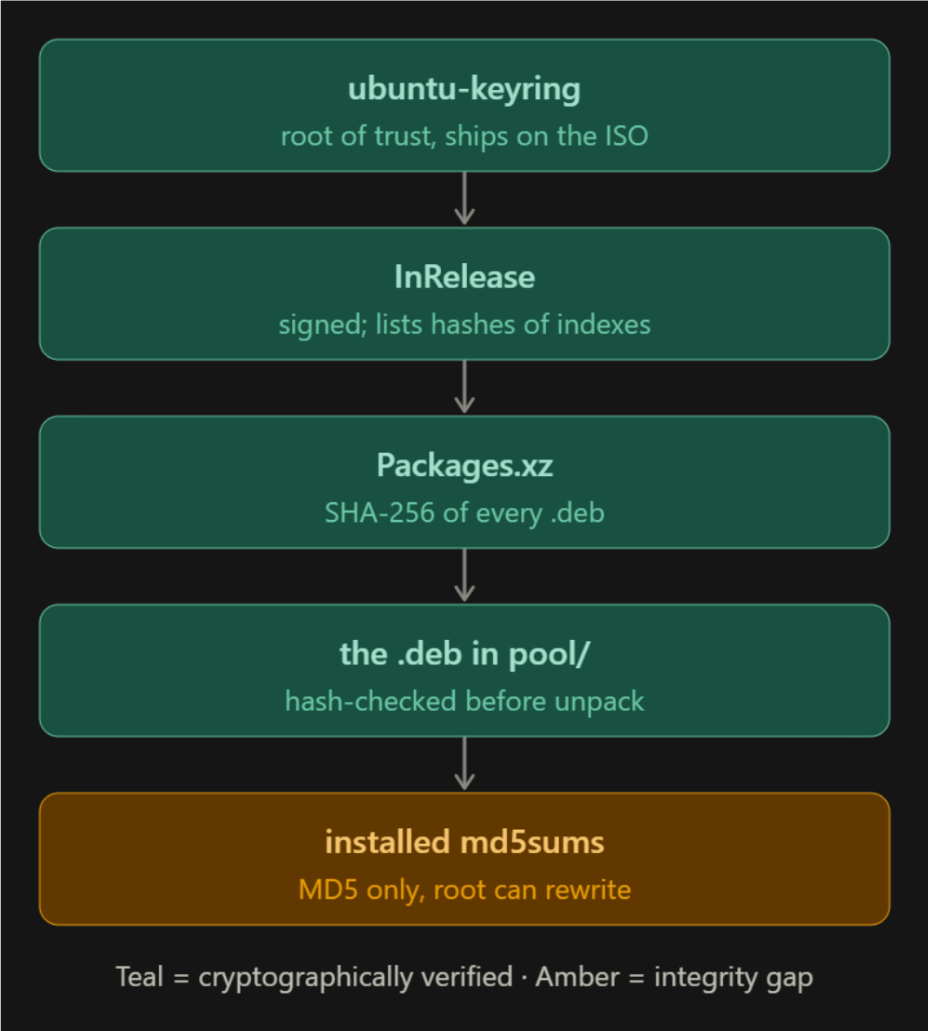
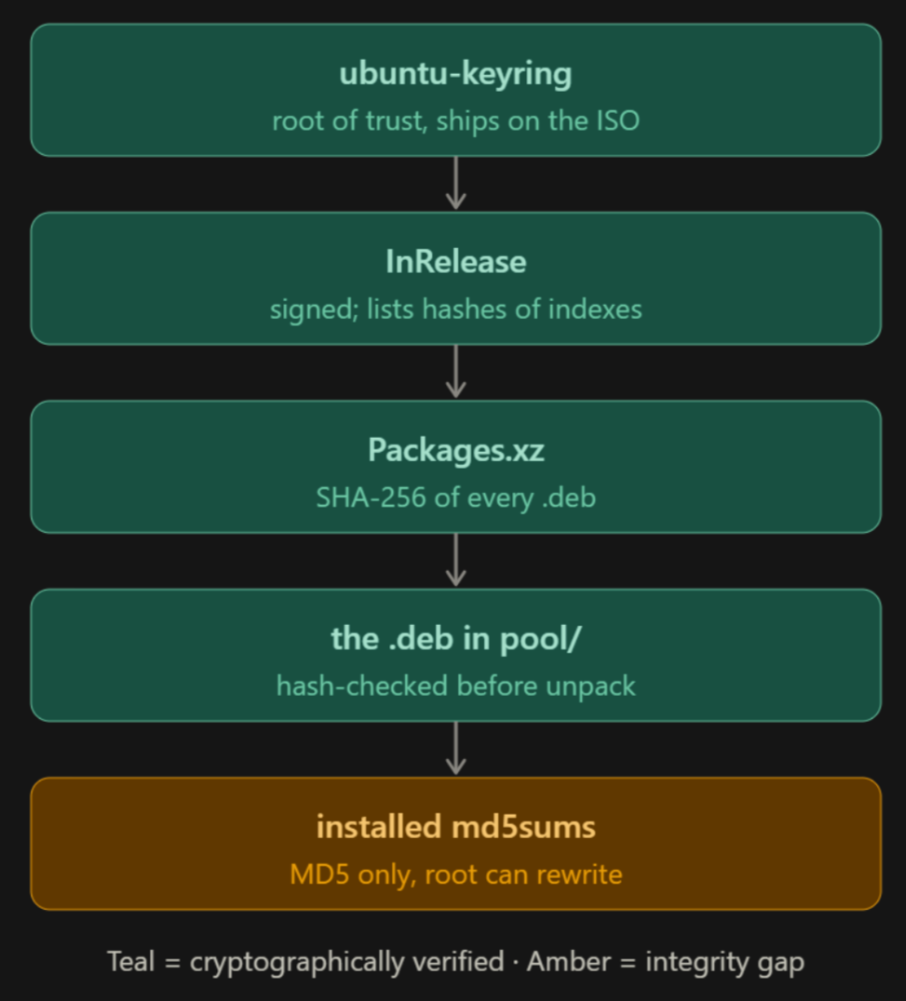
Distro Packaging 02

diff --git a/01-Packaging/NOTES.md b/01-Packaging/NOTES.md
@@ -238,7 +238,7 @@ sudo apt --purge remove $(dpkg --list | awk '$1 == "rc" {print $2}')
 
 ## 07. Dependecy Semantics
 
-During a source build, dpkg-shlibdeps reads each binary's ELF(Executable and Linkable Format) needed entries and fills in the righ library version automatically. But to know exactly what relationship fields guarantees.
+During a source build, dpkg-shlibdeps reads each binary's ELF(Executable and Linkable Format) needed entries and fills in the righ library version automatically. But to know exactly what relationship fields guarantees, see the table below:
 
 |Field|What it actually guarantees (This is important BTW)|
 |-----|---------------------------|
@@ -260,5 +260,189 @@ Depends: libc6 (>= 2.34), default-mta | mail-transport-agent
 where | means "any of these alternatives, first one preferred," and version operators are << <= = >= >> 
 Note: the doubled <</>> for strictly-less/greater, because < and > alone are deprecated or not enough.
 
-## 08. Version comparison
+### Practical Examples 01
+How do you inspect dependencies, metadata and actual control file?
+Here you go:
 
+<span style="color:green">**Note: If you get 1 as output, it means the return value is 1 and there's no output against the grep command. So don't worry.**</span>
+
+```bash
+# Inspect dependency relationships
+apt-cache depends nginx
+# Inspect package metadata
+apt show nginx
+# Inspect the actual control file
+mkdir -p /tmp/package-lab
+cd /tmp/package-lab
+apt download nginx
+dpkg-deb -I nginx_*.deb
+# extract the control metadata
+dpkg-deb -e nginx_*.deb control
+cat control
+```
+
+### Practical Example 02
+How do you observe the actual debian package relationships declared by the package's maintainer?
+Here you go again:
+
+#### Experiment 01 (Depends)
+```bash
+# Find the dependencies
+apt-cache depends nginx
+# Simulate the install
+apt install --simulate nginx
+# Inspect the configuration
+dpkg -l nginx
+dpkg -l libc6
+```
+
+#### Experiment 02 (Pre-Depends)
+```bash
+# Find packages declaring this relationship
+apt-cache show dpkg | grep -i Pre-Depends
+# Search the available package metadata
+apt-cache dumpavail | grep -B 10 -A 5 '^Pre-Depends:'
+```
+<span style="color:green">Observing Pre-Depends is stronger than observing Depends cause the prerequisite must be configured before the dependent package is unpacked. </span><span style="color:red">This is difficult to demonstrate safely with ordinary installations, so we'll build a custom package for it later.</span>
+
+#### Experiment 03 (Recommends)
+```bash
+# Just compare these 2 commands bruh, you'll find the recommends
+apt install --simulate python3
+apt install --simulate --no-install-recommends python3
+```
+<span style="color:red">Normally apt installs recommendations, but dpkg does not enforce them</span>
+
+#### Experiment 04 (Suggest)
+```bash
+# You may find suggest entries here
+apt-cache depends git
+# Then, notice that suggested packages are not automatically installed in simulation.
+apt install --simulate git
+```
+
+#### Experiment 05 (Breaks)
+```bash
+# This will find an actual package with a Breaks declaration.
+apt-cache show <package-name> | grep -i '^Breaks:'
+apt install --simulate <package-name>
+```
+Here is something I want to state clearly and this is interesting behaviour, the breaking package can be unpacked while the affected package remains unpacked, but if you want to configure the affected package, it'll never work in an incompatible state.
+
+#### Experiment 06 (Conflict)
+```bash
+# Inspect Command
+apt-cache show <package-name> | grep -i '^Conflicts:'
+# A real example to investigate is alternative mail-transfer-agent implementations.
+# Observe APT handling packages that cannot coexist.
+apt-cache show postfix | grep -E '^(Conflicts|Provides|Replaces):'
+```
+
+#### Experiment 07 (Replaces)
+```bash
+apt-cache show <package-name> | grep -i '^Replaces:'
+```
+Replaces permits file ownership replacement in specified circumstances. By itself it doesn't mean the other package must be removed.
+
+#### Experiment 08 (Provides)
+```bash
+apt-cache show postfix | grep -i '^Provides:'
+apt-cache show exim4-daemon-light | grep -i '^Provides:'
+apt-cache show mail-transport-agent
+# Research yourself, why do you expect me to feed you all?
+```
+
+## 08. Version comparison (Not SemVer)
+
+Debian versions follow the format <span style="color:green">**[epoch:]upstream-version[-devian-revision]**</span>, and they are not compared as strings and not as SemVer. dpkg has its own comparison algorithm:
+
+**First the example: 2:1.5.0-3ubuntu2**
+
+1. Epoch is compared at first. It's optional and default is 0. If upstream's versioning scheme changes in a way that would otherwise sort wrong, it'll jump the higher epoch (1:2.0 beats 9.9 because  for epoch 1>0, higher gets the prority). Lesson: Epochs isn't a software release number, it's a packaging-level ordering mechanism.
+
+2. The version string is non-digit and digit chunks, comparing each chunk appropriately (digits numerically, so 10 > 9; letters by a modified ASCII order).
+
+3. The character **~** sorts before everything, even "nothing." So 1.0~rc1 < 1.0. <span style="color:green">This is the magic or trick for pre-releases: 1.0~beta comes before 1.0 final.</span> 
+```bash
+2:1.5.0~beta1-1 #oldest
+2:1.5.0~rc1-1 #older
+2:1.5.0-1 #newest
+```
+
+Note: BTW, **SemVer** or **Semantic Versioning** is a standard way for numbering software release to communicate the nature of exact changes made from a version to the next one. Like 2.4.5 where we can label x.y.z where; 
+* X is major 
+* Y is minor 
+* Z is patch
+
+
+Ubuntu's version suffixes are a coded language, memorize these:
+|Suffix|Meaning|
+|------|-------|
+|-0ubuntu1|New upstream version that isn't in Debian.|
+|-1ubuntu1|An Ubuntu delta on top of Debian's -1.|
+|-1build1|A **no-change** rebuild (e.g. against a new library, but still source codes can be same).|
+|-1ubuntu0.24.04.1|The stable/security update pattern — sorts above -1 but below Debian's eventual -2.|
+
+That last pattern is the one we see on every security update, and the fact that it sorts cleanly between the original and the next Debian revision is why the whole update mechanism works without version collisions.
+
+## 09. The Archive trust Chain
+
+When apt installs a package, why do the distro trust it? And trust me, if you don't know cryptography then please learn it first. Atleast the basics, hashing, encoding, encryption-decryption and digital signature. Those will be enough. 
+
+4 major question from the security prespective:
+* Where does Ubuntu get its initial trusted keys?
+* How does Ubuntu decide which key is allowed to sign which repository?
+* How does APT verify that repository metadata hasn't been modified?
+* How does APT decide whether a cryptographic signing key is strong enough?
+We're going to find answers from the question above.
+
+![Relative](/01-Packaging/src/Diagram02.png)
+
+The root is the ubuntu-keyring package and this is installed in image. Even the ISO itself is signed using SHA256SUMS and it is verifiable. Here is the bootstrap problem (Which one is first? Chicken or the egg?): Trusting the keyring because we trust where the image is installed from. Ever heard of the Key-Rotation? It's basically mean shipping new keyring package through the old, still-trusted chain. The new Key arrives signed by the old one.
+
+In this era(October 2026), apt-key is dead, why? On Ubuntu 24.04+ sources live in the format called deb822 in /etc/apt/sources.list.d/ubuntu.sources and each with a Signed-By: line pointing at the specific keyring. That scopes a key to one source, PPA(Personal Package Archive) key which is a GPG(GNU Privacy Guard) and key X can sign PPA X's metadata and nothing else. <span style="color:red">**The old approach dumped keys into /etc/apt/trusted.gpg.d/, where they were trusted for every source. That globally trust is exactly why apt-key was deprecated, addind a third-party key shouldn't grant it authority over the entire system.**</span>
+
+InRelease is the clearsigned Release file(signature and content in one file). apt prefers it over the detached Release + Release.gpg pair because a single file can't race. There's no window where a mirror has updated one and no the others. apt splits the clearsigned file itself so it only ever parse signed bytes and requires a strong hash (SHA-256 or SHA-512); MD5 and SHA-1 in the indexes are legacy-only. It also parses gpgv's machine-readable status lines like <span style="color:green">GOODSIG, VALIDSIG, NO_PUBKEY</span> to decide which key actually signed it.
+
+Now we're going to talk about the 24.04 key strength policy which but, Edly really important. From apt 2.7.13, repos signatures must come from RSA>=2048, Ed25519 or Ed448 keys; 1024 bit RSA repo keys are no longer trusted and launchpad re-signed every PPA under 4096 bit keys. After pushback from people using NIST P-256 repository keys, elliptic-curve keys of 256 bits and up were restored. A later apt update for noble turned the remaining weak-key warnings into hard errors. Newer apt can even use Sequoia's sqv as its verifier instead of gpgv, but verify the current default with apt changelog apt before asserting anything finer-grained, since that's exactly the kind of detail that shifts between point releases.
+
+Still there are some points that this chain don't protects. A signature may prove who and what signed the repo but never when or why.
+
+Here we can see these:
+* Freshness: An attacker swho can intercept the traffic(for some reason you're using http, not https), can replay the old, validly signed Release to freeze in stale indexes and starve security updates. Here Ubuntu sets the Valid-Until in the repos. This is a network level attack that passes every signature check.
+* Upstream Intent: There is an CVE called CVE-2024-3094 which is xz backdoor, planted upstream, in release tarballs and faithfully signed and delivered by the build system. The chain delivers whatever the build infrastructure produced. Basically, **Signed != safe**.
+* Local Files: Running a command like dpkg -i ./packageName.deb or apt install ./packageName.deb on a file which is already downloaded performs no authenticiy check. The trust chain is a property of archives not for .deb file in general. 
+
+<span style="color:green">The archive key signs the index, the index hashes the packeges, apt checks both before dpkg starts to work witht he binaries. But once unpacked, the only per-file record left is an MD5 list that root can rewrite.</span>
+
+## 10. Ubuntu-specific machinery
+
+The archive has a structure:
+
+* Components
+* Pockets
+* Upload & Signing
+* Stable Release Updates (SRUs)
+* Phased
+* Snaps
+
+Basically **Component** describe support and licensing, main and restricted are Canonical supported where universe and multiverse are community maintaned  (Ubuntu Pro's ESM extends security coverage into universe).
+
+**Pockets** are the relesas channels like noble(the base release), -updates, -security, -proposed, -backports etc.
+
+**Uploads & Signing**  follow a model where launchpads accepts only signed sources uploads from authorized uploaders. and build the binary itself. So a developer's key authorized an upload into the build system. Still it never signs the .deb in the machine you install. A linux machine can never check the archive key. This is also exavtly the PPA works with their own per-PPA key.
+
+**Stable Release Updates (SRUs)** explains the question behind kept back. A fix lands in the -proposed, gets verified, ages, then moves to -update.
+```bash
+"-proposed ⟶ verify ⟶ aged ⟶ -update"
+```
+
+**Phased** is where we can see the growing percentage of machines after rolled out by SRUs and controlled by Phased-Update-Percantage in the index. apt decideds deterministically if the release is on the current wave. This is why, there is an output "deferred due to phasing," and  "kept back" usually means phasing, not a broken dependency on Ubuntu which are common misdiagnosis for beginners. 
+
+Now comes the **Snaps** which is a seperate system with it's own trust chain. It works as store-signed assertions, where the snap-revision assertion carries a SHA3-SHA384 of the .snap. Some .debs like firefox since 22.04 are thin wrappers that install the snap.
+
+## 11. Build a Package
+
+## 12. Connection to IR (Incident Response)
+
+## 13. Misconceptions
